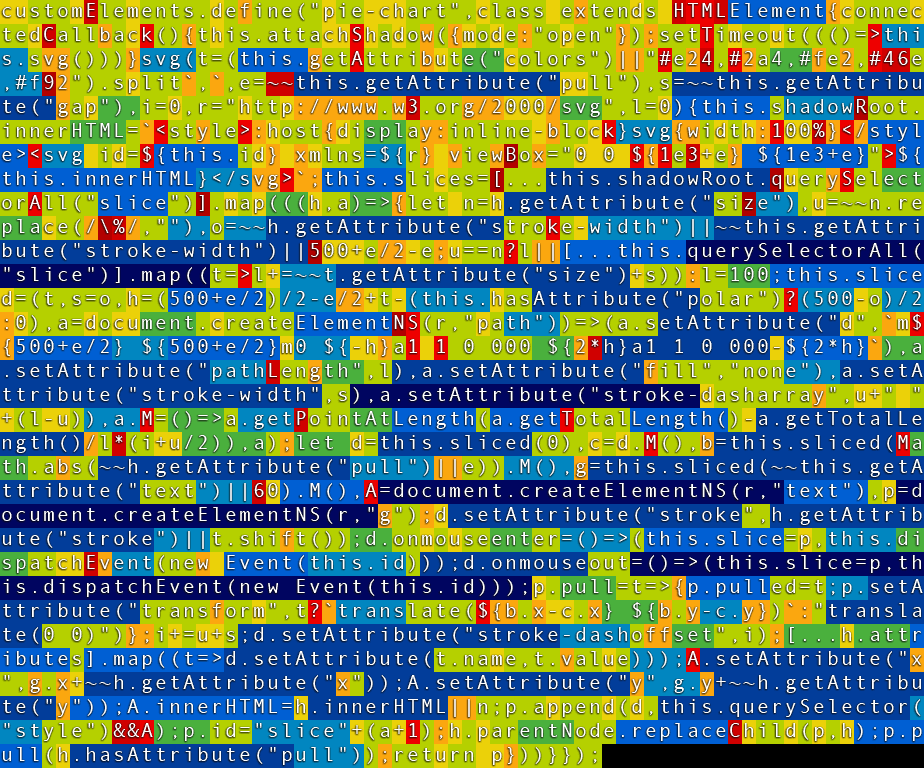
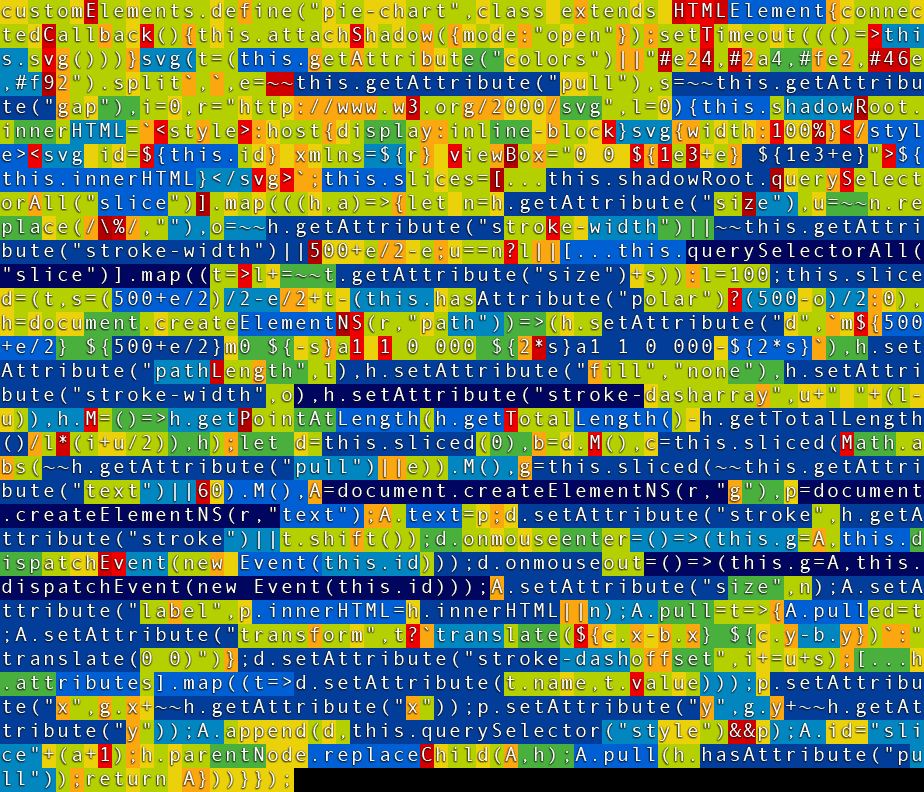
smaller!

diff --git a/index.html b/index.html
@@ -11,7 +11,7 @@
         }
         div {
           display: grid;
-          grid-template-columns: 1fr 2fr 1fr;
+          grid-template-columns: var(--description-fr, 1fr) 2fr auto;
           gap: 1em;
         }
       </style>
@@ -80,30 +80,37 @@
         <div>
           <h1><meister-name></meister-name></h1>
           <p>
-            In memory of the <a href="https://en.wikipedia.org/wiki/TRS-80">first computer</a> I programmed (4 kB memory) I tried to create a &lt;pie-chart> Web Component in a maximum of <b>3.14</b> kB...
-            and failed
+            In memory of the <a href="https://en.wikipedia.org/wiki/TRS-80">first computer</a> I programmed (it had 4 kB
+            memory)<br />I tried to create a &lt;pie-chart> Web Component in a maximum of <b>3.14</b> kB... and failed
           </p>
           <chart-libraries-table></chart-libraries-table>
         </div>
       </header>
     </section>
+    <section></section>
     <section>
       <h2>Usage:</h2>
       <pie-demo>
-        <pie-chart pull="200" text="350">
+        <pie-chart pull="200">
           <style>
             text {
-              font-size: 5em;
+              font-size: 3em;
               text-anchor: middle;
             }
+            [label="Blueberry"] text{
+              fill:white;
+            }
           </style>
-          <slice size="10">Configure IDE</slice>
-          <slice size="10">Updating dependencies</slice>
-          <slice size="40">Programming</slice>
-          <slice size="20">Testing</slice>
-          <slice size="5">Debugging</slice>
+          <slice size="20%" stroke="#6c3">Apple</slice>
+          <slice size="18" stroke="#fc5a8d">Strawberry</slice>
+          <slice size="16" stroke="#ff7518">Pumpkin</slice>
+          <slice size="20" stroke="#790604">Cherry</slice>
+          <slice size="5" stroke="#4f86f7">Blueberry</slice>
+          <slice size="5" stroke="#fff44f">Lemon</slice>
+          <slice size="5" stroke="#d2691e">Chocolate</slice>
+          <slice size="" x=100 stroke="beige">Other</slice>
         </pie-chart>
-        <pie-description>Minimal HTML to hap<i class="pi">pi</i>ness</pie-description>
+        <pie-description hide></pie-description>
       </pie-demo>
       <pie-demo>
         <pie-chart>
@@ -136,7 +143,8 @@
       <pie-demo>
         <pie-description
           >Format a single pie with <b>inline</b> CSS (styling SVG elements)<br /><br />By default labels are positioned
-          60 SVG units <b>outward</b> from the slice center point<br><br>Labels are only shown when a &lt;style> is defined</pie-description
+          60 SVG units <b>outward</b> from the slice center point<br /><br />Labels are only shown when a &lt;style> is
+          defined</pie-description
         >
         <pie-chart>
           <style>
@@ -237,14 +245,19 @@
         </pie-chart>
       </pie-demo>
       <pie-demo>
-        <pie-description>Polar chart (attempt)</pie-description>
+        <pie-description>Polar chart. The stroke-width defines the slice radius</pie-description>
         <pie-chart polar>
-          <slice size="10" stroke-width="300"></slice>
-          <slice size="10" stroke-width="200"></slice>
-          <slice size="10" stroke-width="300"></slice>
-          <slice size="10" stroke-width="500"></slice>
-          <slice size="10" stroke-width="400"></slice>
-          <slice size="10" stroke-width="500"></slice>
+          <slice size="2" stroke-width="300"></slice>
+          <slice size="2" stroke-width="200"></slice>
+          <slice size="2" stroke-width="300"></slice>
+          <slice size="1" stroke-width="400"></slice>
+          <slice size="1" stroke-width="500"></slice>
+          <style>
+            text {
+              font-size: 4em;
+              text-anchor: middle;
+            }
+          </style>
         </pie-chart>
       </pie-demo>
     </section>
@@ -253,7 +266,7 @@
       <p>Pie slices emit mouseenter & mouseout Events to the pie-chart Element</p>
       <pre><code class="language-javascript">
           pullpie.addEventListener("pullpie", (evt) => {
-            let slice = evt.target.slice;
+            let slice = evt.target.g; // SVG &lt;g> element
             slice.pull(!slice.pulled)
           });
       </code></pre>
@@ -268,8 +281,8 @@
       </pie-demo>
       <script>
         pullpie.addEventListener("pullpie", (evt) => {
-          let slice = evt.target.slice;
-          slice.pull(!slice.pulled)
+          let slice = evt.target.g;
+          slice.pull(!slice.pulled);
         });
       </script>
     </section>

diff --git a/elements.pie-meister.min.js b/elements.pie-meister.min.js
@@ -1,1 +1,1 @@
-customElements.define("pie-chart",class extends HTMLElement{connectedCallback(){this.attachShadow({mode:"open"});setTimeout((()=>this.svg()))}svg(t=(this.getAttribute("colors")||"#e24,#2a4,#fe2,#46e,#f92").split`,`,e=~~this.getAttribute("pull"),s=~~this.getAttribute("gap"),i=0,r="http://www.w3.org/2000/svg",l=0){this.shadowRoot.innerHTML=`<style>:host{display:inline-block}svg{width:100%}</style><svg id=${this.id} xmlns=${r} viewBox="0 0 ${1e3+e} ${1e3+e}">${this.innerHTML}</svg>`;this.slices=[...this.shadowRoot.querySelectorAll("slice")].map(((h,a)=>{let n=h.getAttribute("size"),u=~~n.replace(/\%/,""),o=~~h.getAttribute("stroke-width")||~~this.getAttribute("stroke-width")||500+e/2-e;u==n?l||[...this.querySelectorAll("slice")].map((t=>l+=~~t.getAttribute("size")+s)):l=100;this.sliced=(t,s=o,h=(500+e/2)/2-e/2+t-(this.hasAttribute("polar")?(500-o)/2:0),a=document.createElementNS(r,"path"))=>(a.setAttribute("d",`m${500+e/2} ${500+e/2}m0 ${-h}a1 1 0 000 ${2*h}a1 1 0 000-${2*h}`),a.setAttribute("pathLength",l),a.setAttribute("fill","none"),a.setAttribute("stroke-width",s),a.setAttribute("stroke-dasharray",u+" "+(l-u)),a.M=()=>a.getPointAtLength(a.getTotalLength()-a.getTotalLength()/l*(i+u/2)),a);let d=this.sliced(0),c=d.M(),b=this.sliced(Math.abs(~~h.getAttribute("pull")||e)).M(),g=this.sliced(~~this.getAttribute("text")||60).M(),A=document.createElementNS(r,"text"),p=document.createElementNS(r,"g");d.setAttribute("stroke",h.getAttribute("stroke")||t.shift());d.onmouseenter=()=>(this.slice=p,this.dispatchEvent(new Event(this.id)));d.onmouseout=()=>(this.slice=p,this.dispatchEvent(new Event(this.id)));p.pull=t=>{p.pulled=t;p.setAttribute("transform",t?`translate(${b.x-c.x} ${b.y-c.y})`:"translate(0 0)")};i+=u+s;d.setAttribute("stroke-dashoffset",i);[...h.attributes].map((t=>d.setAttribute(t.name,t.value)));A.setAttribute("x",g.x+~~h.getAttribute("x"));A.setAttribute("y",g.y+~~h.getAttribute("y"));A.innerHTML=h.innerHTML||n;p.append(d,this.querySelector("style")&&A);p.id="slice"+(a+1);h.parentNode.replaceChild(p,h);p.pull(h.hasAttribute("pull"));return p}))}});
+customElements.define("pie-chart",class extends HTMLElement{connectedCallback(){this.attachShadow({mode:"open"});setTimeout((()=>this.svg()))}svg(t=(this.getAttribute("colors")||"#e24,#2a4,#fe2,#46e,#f92").split`,`,e=~~this.getAttribute("pull"),s=~~this.getAttribute("gap"),i=0,r="http://www.w3.org/2000/svg",l=0){this.shadowRoot.innerHTML=`<style>:host{display:inline-block}svg{width:100%}</style><svg id=${this.id} xmlns=${r} viewBox="0 0 ${1e3+e} ${1e3+e}">${this.innerHTML}</svg>`;this.slices=[...this.shadowRoot.querySelectorAll("slice")].map(((h,a)=>{let n=h.getAttribute("size"),u=~~n.replace(/\%/,""),o=~~h.getAttribute("stroke-width")||~~this.getAttribute("stroke-width")||500+e/2-e;u==n?l||[...this.querySelectorAll("slice")].map((t=>l+=~~t.getAttribute("size")+s)):l=100;this.sliced=(t,s=(500+e/2)/2-e/2+t-(this.hasAttribute("polar")?(500-o)/2:0),h=document.createElementNS(r,"path"))=>(h.setAttribute("d",`m${500+e/2} ${500+e/2}m0 ${-s}a1 1 0 000 ${2*s}a1 1 0 000-${2*s}`),h.setAttribute("pathLength",l),h.setAttribute("fill","none"),h.setAttribute("stroke-width",o),h.setAttribute("stroke-dasharray",u+" "+(l-u)),h.M=()=>h.getPointAtLength(h.getTotalLength()-h.getTotalLength()/l*(i+u/2)),h);let d=this.sliced(0),b=d.M(),c=this.sliced(Math.abs(~~h.getAttribute("pull")||e)).M(),g=this.sliced(~~this.getAttribute("text")||60).M(),A=document.createElementNS(r,"g"),p=document.createElementNS(r,"text");A.text=p;d.setAttribute("stroke",h.getAttribute("stroke")||t.shift());d.onmouseenter=()=>(this.g=A,this.dispatchEvent(new Event(this.id)));d.onmouseout=()=>(this.g=A,this.dispatchEvent(new Event(this.id)));A.setAttribute("size",n);A.setAttribute("label",p.innerHTML=h.innerHTML||n);A.pull=t=>{A.pulled=t;A.setAttribute("transform",t?`translate(${c.x-b.x} ${c.y-b.y})`:"translate(0 0)")};d.setAttribute("stroke-dashoffset",i+=u+s);[...h.attributes].map((t=>d.setAttribute(t.name,t.value)));p.setAttribute("x",g.x+~~h.getAttribute("x"));p.setAttribute("y",g.y+~~h.getAttribute("y"));A.append(d,this.querySelector("style")&&p);A.id="slice"+(a+1);h.parentNode.replaceChild(A,h);A.pull(h.hasAttribute("pull"));return A}))}});

diff --git a/elements.pie-meister.js b/elements.pie-meister.js
@@ -39,8 +39,10 @@ customElements.define(
       }
       // ================================================================================== convert <slice>s to paths
       this.slices = [...this.shadowRoot.querySelectorAll("slice")].map((sliceBase, idx) => {
+
         let sizeString = sliceBase.getAttribute("size");
         let sliceSize = ~~sizeString.replace(/\%/, "");
+
         let strokeWidth =
           ~~sliceBase.getAttribute("stroke-width") || // <slice stroke-width=X>
           ~~this.getAttribute("stroke-width") || // <pie-chart stroke-width=X>
@@ -59,8 +61,6 @@ customElements.define(
           // user parameters
           extraRadius, // 0 = slice middle point
 
-          width = strokeWidth,
-
           // calculations:
           R = (500 + pull / 2) / 2 -
             pull / 2 +
@@ -71,7 +71,7 @@ customElements.define(
           path.setAttribute("d", `m${500 + pull / 2} ${500 + pull / 2}m0 ${-R}a1 1 0 000 ${R * 2}a1 1 0 000-${R * 2}`),
           path.setAttribute("pathLength", pathlength),
           path.setAttribute("fill", "none"),
-          path.setAttribute("stroke-width", width),
+          path.setAttribute("stroke-width", strokeWidth),
           path.setAttribute("stroke-dasharray", sliceSize + " " + (pathlength - sliceSize)),
           // stick .M method on path to get a Point position x,y later
           (path.M = () =>
@@ -88,15 +88,18 @@ customElements.define(
         let pullPoint = this.sliced(Math.abs(~~sliceBase.getAttribute("pull") || pull)).M();
         // textPoint is used for calculations, not drawn on SVG
         let textPoint = this.sliced(~~this.getAttribute("text") || 60).M();
-        let label = document.createElementNS(namespace, "text");
         let group = document.createElementNS(namespace, "g");
+        let label = document.createElementNS(namespace, "text");
 
+        group.text = label;
         // determine color
         path.setAttribute("stroke", sliceBase.getAttribute("stroke") || colors.shift());
         //! 43 Bytes for Events
-        path.onmouseenter = () => ((this.slice = group), this.dispatchEvent(new Event(this.id)));
-        path.onmouseout = () => ((this.slice = group), this.dispatchEvent(new Event(this.id)));
+        path.onmouseenter = () => ((this.g = group), this.dispatchEvent(new Event(this.id)));
+        path.onmouseout = () => ((this.g = group), this.dispatchEvent(new Event(this.id)));
 
+        group.setAttribute("size", sizeString);
+        group.setAttribute("label", (label.innerHTML = sliceBase.innerHTML || sizeString));
         group.pull = (state) => {
           //(group.setAttribute("x", pullPoint.x+pull), group.setAttribute("y", pullPoint.y)),
           group.pulled = state;
@@ -106,8 +109,8 @@ customElements.define(
           );
         };
 
-        dashoffset += sliceSize + gap;
-        path.setAttribute("stroke-dashoffset", dashoffset);
+        // calculate dashoffset ONCE for each slice
+        path.setAttribute("stroke-dashoffset", dashoffset += sliceSize + gap);
 
         // add user defined <slice> attributes to path
         [...sliceBase.attributes].map((x) => path.setAttribute(x.name, x.value));
@@ -115,14 +118,15 @@ customElements.define(
         // ------------------------------------------------------------------ create slice(idx) content
         label.setAttribute("x", textPoint.x + ~~sliceBase.getAttribute("x"));
         label.setAttribute("y", textPoint.y + ~~sliceBase.getAttribute("y"));
-        label.innerHTML = sliceBase.innerHTML || sizeString;
+
         //addCircle(point.M(0), "green");
         //addCircle(text_point, "grey");
         // addCircle(pull_point, "red");
 
-        group.append(path, 
+        group.append(
+          path,
           this.querySelector("style") && label // if lightDOM has a style element, append <text>
-          );
+        );
         group.id = "slice" + (idx + 1);
         // --- add path and label to SVG, at <slice> position
         // parentNode can be SVG or user element <g>

diff --git a/elements.pie-meister.site-elements.js b/elements.pie-meister.site-elements.js
@@ -36,7 +36,7 @@ customElements.define(
   "meister-name",
   class extends HTMLElement {
     connectedCallback() {
-      this.innerHTML = `Pie Meister v3.14`;
+      this.innerHTML = `Pie Meister v3.14 `;
     }
   }
 );
@@ -64,7 +64,7 @@ customElements.define(
           this.prepend(pre);
           let html = this.querySelector("pie-chart").outerHTML;
           html = html.replace(/pull=""/g, "pull");
-          html = html.replace(/label=""/g, "label");
+          html = html.replace(/polar=""/g, "polar");
           this.querySelector("code").innerHTML = formatHTMLasCode(html);
           Prism.highlightAllUnder(this.shadowRoot);
         }
@@ -76,7 +76,7 @@ customElements.define(
   "content-length",
   class extends HTMLElement {
     connectedCallback() {
-      fetch(this.getAttribute("src")).then((res) => (this.innerHTML = res.headers.get("content-length") + " Bytes"));
+      fetch(this.getAttribute("src")).then((res) => (this.innerHTML = " " + res.headers.get("content-length") + " Bytes"));
     }
   }
 );
@@ -84,6 +84,12 @@ customElements.define(
   "pie-description",
   class extends HTMLElement {
     connectedCallback() {
+      if(this.hasAttribute("hide")){
+          console.log(this);
+          //this.closest("pie-demo").style.setProperty("--description-fr","0fr")
+          //this.closest("pie-demo").style.setProperty("--pie-fr","2fr");
+          this.remove();
+      }
       this.slot = "description";
     }
   }
